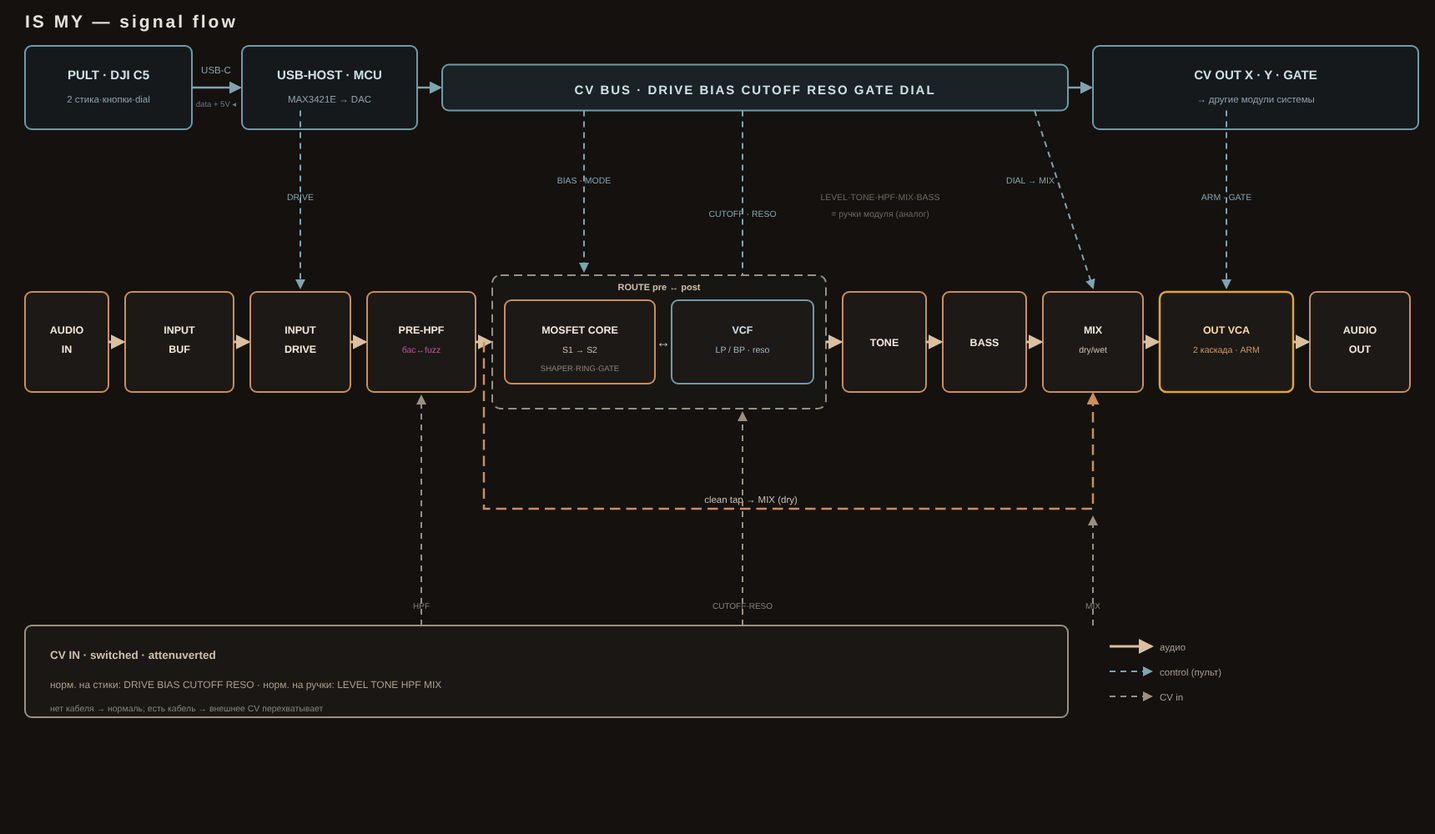
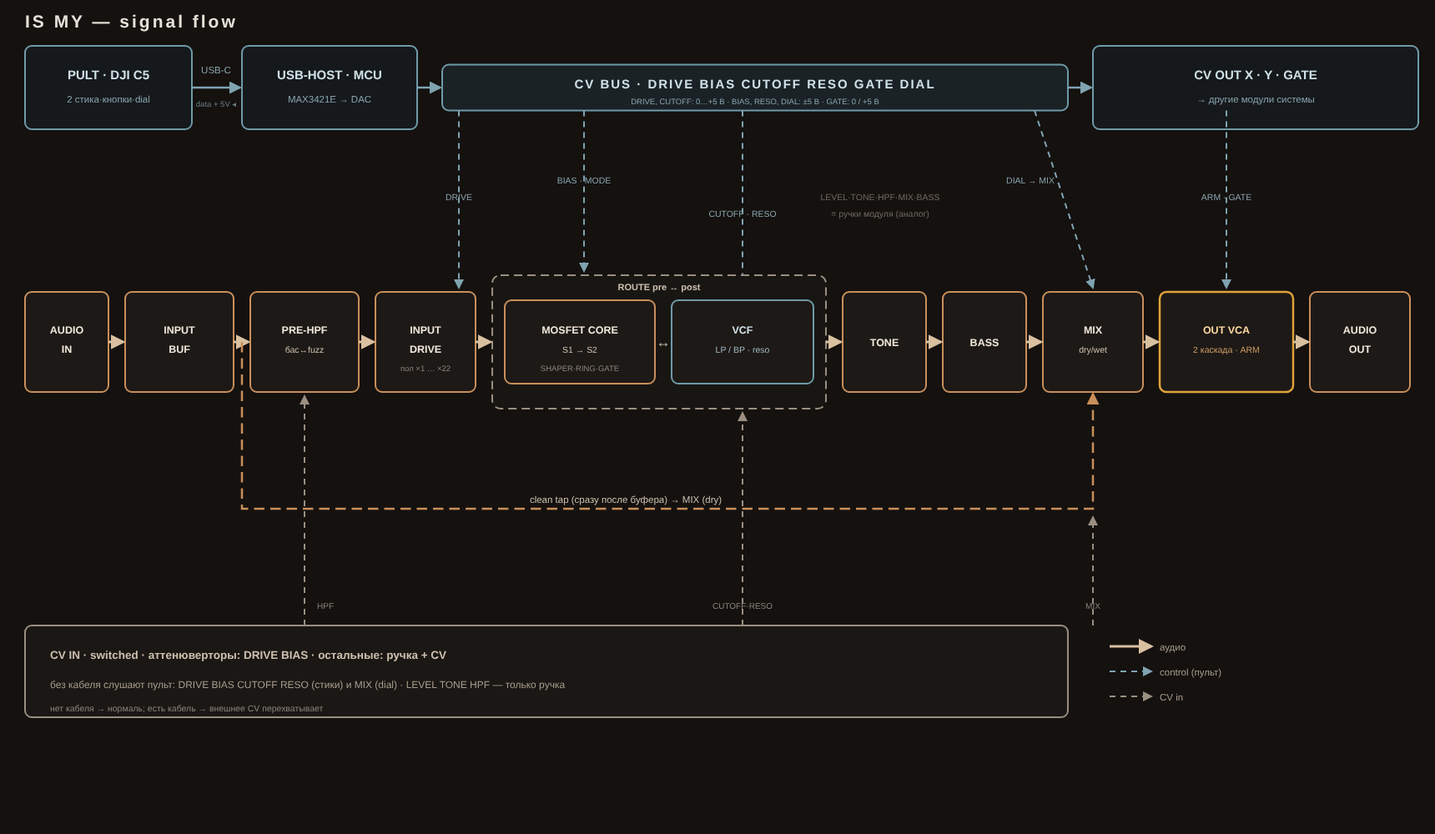
Is My: документы и картинки — этап 0 (C1, C3–C7, D1, D2, D6)
- 01_concept: статус-баннер со списком того, что изменилось с исходного
  концепта (C1)
- 04_prototyping: чек-листы под новые топологии и решения: It-2 двумя
  ветками host, It-3 с полярностями D1, It-4a с выбором рабочей области
  и ячейкой-ключом, It-5 на ключах нижнего плеча; закупка дополнена (C6)
- 05_pult_dji_c5: убрана черновая мысль, каналы ЦАП с диапазонами,
  роли ручек, heartbeat, VBUS по детекту CC (C3)
- panel_module: аттенюверторы только DRIVE и BIAS, вход MIX слушает
  пульт (C4, D2)
- signal_flow: HPF до INPUT DRIVE, clean tap сразу после буфера,
  полярности шины CV
- panel_pult → panel_pult_legacy со штампом «устарело» (C5)
- 06_tutorial_infographic: тракт, режимы и дорожная карта под этап 0

Claude-Session: https://claude.ai/code/session_01RSwz9zC2MGqxp43ShaMKCF

diff --git a/is_my/06_tutorial_infographic.html b/is_my/06_tutorial_infographic.html
@@ -124,7 +124,7 @@
     <span class="lbl"><span class="led amber"></span><b>EDITION</b>&nbsp; 13 экз. с провенансом</span>
     <span class="lbl"><span class="led green"></span><b>ФОРМАТ</b>&nbsp; Eurorack 3U · 20HP · ±12V</span>
     <span class="lbl"><b>СВЯЗЬ</b>&nbsp; один кабель USB-C</span>
-    <span class="lbl"><b>СТАТУС</b>&nbsp; вычитка (07) → этап 0 → прототип</span>
+    <span class="lbl"><b>СТАТУС</b>&nbsp; этап 0 закрыт → закупка и макет</span>
   </div>
 </header>
 
@@ -327,8 +327,8 @@
       <text x="302" y="26" text-anchor="middle" fill="#cdbfae" font-size="8">ROUTE pre/post</text>
       <g fill="#f0e6da" text-anchor="middle" font-weight="600">
         <text x="34" y="63">AUDIO</text><text x="34" y="75">IN</text>
-        <text x="111" y="63">DRIVE</text><text x="111" y="75" fill="#8a837a" font-size="8">предусил</text>
-        <text x="193" y="63">HPF</text><text x="193" y="75" fill="#8a837a" font-size="8">бас↔fuzz</text>
+        <text x="111" y="63">HPF</text><text x="111" y="75" fill="#8a837a" font-size="8">бас↔fuzz</text>
+        <text x="193" y="63">DRIVE</text><text x="193" y="75" fill="#8a837a" font-size="8">пол → клип</text>
         <text x="274" y="63">CORE</text><text x="274" y="75" fill="#8a837a" font-size="8">2×MOSFET</text>
         <text x="330" y="63" fill="#cfe0e6">VCF</text><text x="330" y="75" fill="#8fb3c0" font-size="8">LP/BP·reso</text>
         <text x="406" y="70">TONE</text>
@@ -343,9 +343,9 @@
         <line x1="432" y1="65" x2="448" y2="65"/><line x1="504" y1="65" x2="520" y2="65"/>
         <line x1="580" y1="65" x2="668" y2="65"/><line x1="738" y1="65" x2="754" y2="65"/>
       </g>
-      <path d="M226,65 L226,122 L552,122 L552,89" fill="none" stroke="#c98f5a" stroke-width="1"
+      <path d="M70,65 L70,122 L552,122 L552,89" fill="none" stroke="#c98f5a" stroke-width="1"
             stroke-dasharray="5 3" marker-end="url(#a)"/>
-      <text x="390" y="118" text-anchor="middle" fill="#cdbfae" font-size="8.5">clean tap → в MIX: чистый фундамент под любой грязью</text>
+      <text x="320" y="118" text-anchor="middle" fill="#cdbfae" font-size="8.5">clean tap, сразу со входа → в MIX: чистый фундамент под любой грязью</text>
     </svg>
     </div>
     <figcaption>Один тракт — три режима ядра (SHAPER · RING · GATE), фильтр до или после</figcaption>
@@ -356,11 +356,12 @@
       <p>Два каскада MOSFET: первый мягко насыщает, второй жёстко клиппит в отсечку. BIAS плавно
       гнёт симметрию — чётные ↔ нечётные гармоники. На больших DRIVE — саб-октава (period-doubling).</p></div>
     <div class="card"><span class="tag amber">RING</span>
-      <p>Транзистор буквально коммутирует на несущей 200 Гц – 10 кГц (частота от DRIVE). Боковые
-      полосы, металл, а на низкой несущей — слышимый PWM-tick: голос материала.</p></div>
+      <p>Два транзистора открываются по очереди, как плечо моста в регуляторе хода, и переворачивают
+      сигнал с частотой несущей 200 Гц – 10 кГц (от DRIVE). Боковые полосы, металл, а на низкой
+      несущей слышен тик затворов: голос материала.</p></div>
     <div class="card"><span class="tag amber">GATE</span>
-      <p>Верхний порог лимитирует (DRIVE), нижний гейтит (BIAS): транзиенты остаются, хвосты
-      отрезаются. Перкуссия из чего угодно.</p></div>
+      <p>Один транзистор лимитирует, упираясь в рельсы питания (порог — DRIVE), второй гейтит,
+      закорачивая тракт на землю (порог — BIAS): транзиенты остаются, хвосты отрезаются.</p></div>
   </div>
 </section>
 
@@ -438,15 +439,16 @@
 <!-- ================= 04 ROADMAP ================= -->
 <section>
   <div class="sec-head"><span class="sec-num">04</span><h2>Дорожная карта · от стола до пред-серии</h2></div>
-  <p class="lede">Порядок неслучайный: цифра идёт первой, потому что она быстрая, дешёвая и
-  становится измерительным стендом для аналога. Каждая итерация закрывает конкретные риски
-  и имеет проверяемый выход.</p>
+  <p class="lede">Цифра быстрая и дешёвая, она становится измерительным стендом для аналога.
+  Но главный блокер — ядро на суррогатах (It-4a) — стартует параллельно с пультом, как только
+  пришли транзисторы. Каждая итерация закрывает конкретные риски и имеет проверяемый выход.</p>
 
   <ul class="rmap">
     <li class="blue"><span class="dot"></span>
       <div class="it-head"><span class="name">It-0 · Стенд и закупка</span><span class="tag">неделя</span></div>
-      <p>2× Nucleo-G431, 2× DJI C5 б/у (рабочий + жертва на разбор), MAX3421E, DAC8568, BS170
-      россыпью как суррогаты доноров, осциллограф и лабораторный ±12.</p>
+      <p>Аналог заказывается первым: BS170 россыпью как суррогаты доноров, реле, драйвер затворов,
+      детали фильтра и усилителя. Цифра: 2× Nucleo-G431, Pico, MAX3421E, DAC8568. И 2× DJI C5 б/у —
+      рабочий и жертва на разбор.</p>
       <div class="done-when"><b>выход:</b> всё на столе, ничего не блокирует</div></li>
 
     <li class="blue"><span class="dot"></span>
@@ -458,20 +460,23 @@
 
     <li class="blue"><span class="dot"></span>
       <div class="it-head"><span class="name">It-2 · USB-host на модуле</span><span class="tag blue">R19</span></div>
-      <p>MAX3421E + второй Nucleo энумерируют пульт, VBUS кормит его через токовый лимитер.
-      Горячее втыкание, 10 минут «пилотажа» без единой ошибки парсинга.</p>
+      <p>Две ветки на выбор: Nucleo с MAX3421E и Pico со встроенным host. Питание пульту подаётся
+      только после того, как модуль увидел устройство на линиях CC. Горячее втыкание, 10 минут
+      «пилотажа» без единой ошибки парсинга — остаётся та ветка, что стабильнее.</p>
       <div class="done-when"><b>выход:</b> один кабель = данные + питание, стабильно</div></li>
 
     <li class="blue"><span class="dot"></span>
       <div class="it-head"><span class="name">It-3 · MIDI → CV</span><span class="tag blue">R5</span></div>
-      <p>DAC8568 с калибровкой: центр стика = 0.00 В, края = ±5.00 В, никакой слышимой
-      ступенчатости. Отработать процесс калибровочных таблиц — он потом нужен для каждого экземпляра.</p>
+      <p>DAC8568 с калибровкой. Горизонтали: центр стика = 0.00 В, края = ±5.00 В. Вертикали копят
+      от нуля: 0…+5.00 В. Никакой слышимой ступенчатости. Отработать процесс калибровочных таблиц —
+      он потом нужен для каждого экземпляра.</p>
       <div class="done-when"><b>выход:</b> осциллограмма «жест → CV» чистая, латентность &lt; 15 мс</div></li>
 
     <li class="crit"><span class="dot"></span>
-      <div class="it-head"><span class="name">It-4a · Ядро на суррогатах</span><span class="tag warn">R2 · R14 — блокер</span></div>
-      <p>Двухкаскадный сатуратор + обе сервы на копеечных BS170. Серва должна захватить пять
-      разных транзисторов без подстройки. Найти зону саб-октавы. И — вердикт: злой ли клип
+      <div class="it-head"><span class="name">It-4a · Ядро на суррогатах</span><span class="tag warn">R14 · R21 — блокер</span></div>
+      <p>Идёт параллельно с It-1. Сначала снять кривые транзисторов и выбрать рабочую область,
+      потом двухкаскадный сатуратор и обе сервы на копеечных BS170. Серва должна захватить пять
+      разных транзисторов без подстройки. Найти зону саб-октавы. И — вердикт: плотный ли клип
       без диодов. <b>До закрытия — не заказывать платы, не разбирать доноров.</b></p>
       <div class="done-when"><b>выход:</b> A/B-записи звучат, номиналы зафиксированы</div></li>
 
@@ -482,9 +487,10 @@
       <div class="done-when"><b>выход:</b> материал в тракте, разница с суррогатом задокументирована</div></li>
 
     <li><span class="dot"></span>
-      <div class="it-head"><span class="name">It-5 · RING + GATE + переключения</span><span class="tag amber">R17</span></div>
-      <p>Несущий VCO, ШИМ-компаратор, детектор огибающей. Смена режима — под мьютом с рампой:
-      сто переключений подряд без единого щелчка громче −60 дБ.</p>
+      <div class="it-head"><span class="name">It-5 · RING + GATE + переключения</span><span class="tag amber">R22 · R17</span></div>
+      <p>Те же два транзистора становятся ключами нижнего плеча: реле перекидывают сток и исток,
+      драйвер качает затворы. Несущий VCO, ШИМ-компаратор, детектор огибающей. Смена режима —
+      под мьютом с рампой: сто переключений подряд без единого щелчка громче −60 дБ.</p>
       <div class="done-when"><b>выход:</b> три режима на одном ядре, переходы бесшумны</div></li>
 
     <li><span class="dot"></span>

diff --git a/is_my/04_prototyping.md b/is_my/04_prototyping.md
@@ -1,6 +1,8 @@
 # Is My — план прототипирования (итерации 0–8)
 
-Рабочий документ первых итераций. Принцип: **каждая итерация даёт проверяемый результат** и закрывает конкретные риски из registry (`02_technical.md` §13). Порядок выстроен так, что цифровая часть (быстрая, дешёвая, без редких деталей) идёт первой и становится измерительным стендом для аналоговой.
+Рабочий документ первых итераций. Принцип: **каждая итерация даёт проверяемый результат** и закрывает конкретные риски из registry (`02_technical.md` §13). Цифровая часть (быстрая, дешёвая, без редких деталей) становится измерительным стендом для аналоговой, но главный блокер — ядро на суррогатах (It-4a) — стартует параллельно с It-1, как только пришли транзисторы. Порядок этапов и сроки — `07_review_and_plan.md` §4.
+
+Ревизия после этапа 0: чек-листы приведены к новым топологиям и решениям D1–D7.
 
 Статусы: `[ ]` не начата · `[~]` в работе · `[x]` закрыта. Обновляем по факту.
 
@@ -18,17 +20,20 @@
 **Закупка — цифра (It-1…3, конфиг DJI C5 / USB — 05_pult_dji_c5.md):**
 - 2× **Nucleo-G431KB** (или G431RB) — пульт и модуль; отладка без своей платы
 - 2× **DJI C5 (RC-N1/RC231)** б/у — рабочий + испытательный на teardown (гимбалы, кнопки, шлейфы — R18/R20)
-- **MAX3421E** breakout (USB Host Shield mini) — USB-host модуля (R19)
-- **TPS2553** (VBUS current limit), **buck 12→5** (TPS54202/LMR51420 модуль или готовая плата)
+- **MAX3421E** breakout (USB Host Shield mini) — USB-host модуля, ветка A (R19)
+- **Raspberry Pi Pico** ×1 — USB-host модуля, ветка B: TinyUSB host + `usb_midi_host` (решение D6)
+- **TPS2553** (VBUS current limit), **buck 12→5** (TPS54202/LMR51420 модуль или готовая плата), гнездо USB-C на плате-переходнике с выведенными CC1/CC2
 - **DAC8568** (breakout/DIP-адаптер), **REF3040**
 - Кабель USB-C↔USB-C ×2; кнопки/LED на макет
 - ~~LiPo, зарядка, boost, fuel-gauge, опто, TRS-гнёзда~~ — **сняты** (питание от VBUS, TRS удалён)
 
 **Закупка — аналог (It-4…6):**
-- **BS170 / 2N7000** ×10 (суррогат донора на отладку), **LM13700** ×4, **OPA2188** ×1, **OPA1642/TL072** ×6, **LM311** ×2, **DG419** ×3, 1N4148/BAT54 россыпь
+- **BS170 / 2N7000** ×10 (суррогат донора на отладку) и пара силовых logic-level MOSFET с большим зарядом затвора (IRLZ44N или подобные) — на них проверяется тик ключей (R22)
+- **LM13700** ×4, **OPA2188** ×1, **OPA1642/TL072** ×10, **LM311** ×4, 1N4148/BAT54 россыпь
+- Перекоммутация и ключи (S4.4): **DG333A** ×3, сигнальные реле DPDT **TQ2-12V / G6K-2** ×3, драйвер затворов **TC4428** ×2
 - **Фильтр и усилитель по схемам «Поливокса»** (S5, S8, R24): **К140УД12 / КР140УД1208** ×4 и **К118УД1Б** ×4 (по два на макет плюс запас), **TL071**, **TL072** ×2 (вычитатели VCA — именно TL072, не OPA1642), **2N3904**, **BC547**; для проверки замен — **LM4250** или **NTE888M** ×2 и **CA3046** ×2
 - Пассив: E12 резисторы, плёнка 1µ/100n/22n/10n/1n, многооборотные подстроечники 50k и 100k ×4
-- LDO +9В (L7809/LP2985-9), +5/+3.3 (по S0)
+- Стабилизатор ядра +9 В: 78L09 или LM317L (S0); +5/+3.3 — по S0
 
 **Донорские ESC:** для итераций НЕ нужны до It-4b. Искать параллельно, вход. контроль по §12 (Vth/gfs/Rds(on) + фото/координаты в provenance).
 
@@ -50,60 +55,73 @@
 - [ ] Momentary (горизонтали): честный 0 в центре, пружина возвращает без хвоста
 - [ ] Латентность жест→CC < 10 мс; поток ≤ ~200 пар/с на ось при «пилотаже» всех 4 осей
 - [ ] Калибровка 4 осей (Power-жест) пишется во flash, переживает ребут
-- [ ] ARM/LINK-toggle от кнопок RTH/Fn без даблов; MODE от слайдера; GATE от Shutter; dial → CC#20
+- [ ] ARM/LINK-toggle от кнопок RTH/Fn без даблов; MODE от слайдера; GATE от Shutter; dial → CC#20 (подпружинен ли dial — записать, R18)
+- [ ] Active Sensing (0xFE) в мониторе каждые 250 мс; при неподвижных стиках больше ничего не идёт
+- [ ] Потребление пульта от 5 В замерить (бюджет 50–80 мА, §10)
 
 **Критерий выхода:** DAW пишет автоматизацию со всех 4 осей, rate-кривые музыкальны, R4/R18 закрыты.
 
-## It-2. USB-host линк `[ ]`  → закрывает R19 (бывший TRS-линк снят вместе с R1)
+## It-2. USB-host линк `[ ]`  → закрывает R19 и выбирает MCU модуля (решение D6)
 
-**Цель:** второй Nucleo (модуль) энумерирует пульт через MAX3421E и принимает поток.
+**Цель:** модульная сторона энумерирует пульт и принимает поток. Две ветки с одинаковыми критериями:
+- **A:** Nucleo-2 + MAX3421E breakout (SPI), стек USB Host Shield / USBH_MIDI.
+- **B:** Raspberry Pi Pico + TinyUSB host + `usb_midi_host`.
 
-**Сборка:** Nucleo-2 + MAX3421E breakout (SPI) + TPS2553 на VBUS → кабель USB-C → пульт из It-1. Стек: референс USB Host Shield / USBH_MIDI, разворачивание USB-MIDI пакетов → `bsp_midi_rx_pop()`.
+**Сборка (общая):** TPS2553 на VBUS, Rp 36k на CC1/CC2 к +3,3 В и те же линии на ADC, кабель USB-C → пульт из It-1. Стек разворачивает USB-MIDI пакеты → `bsp_midi_rx_pop()`; логика — `module/main.c` без изменений.
 
-**Чек-лист:**
+**Чек-лист (для каждой ветки):**
+- [ ] Детект устройства на CC: с пультом на одной линии ≈ 0,41 В → VBUS включается; без кабеля и при соединении с компьютером VBUS не подаётся (E18)
 - [ ] Энумерация пульта < 2 с после втыкания; VBUS-лимитер держит бросок
 - [ ] 0 ошибок парсинга за 10 мин «пилотажа» всех осей (счётчик)
-- [ ] Горячее втыкание/вытыкание USB — модуль не виснет, `bsp_midi_link_up()` отрабатывает, значения держатся
-- [ ] Пульт от VBUS модуля: потребление замерить (бюджет ~50 мА)
-- [ ] Тот же пульт в комп — виден как class-compliant MIDI, работает параллельная логика
+- [ ] Горячее втыкание/вытыкание — модуль не виснет, `bsp_midi_link_up()` отрабатывает, значения держатся, GATE отпускается
+- [ ] Стики неподвижны 10 мин — линк не считается потерянным (Active Sensing доходит до парсера)
+- [ ] Тот же пульт в комп — виден как class-compliant MIDI
 
-**Критерий выхода:** линк стабилен, R19 закрыт.
+**Критерий выхода:** линк стабилен, R19 закрыт, **ветка выбрана** — та, что заработала за меньшее число вечеров и стабильнее. MCU модуля зафиксирован в 02 §13 (R7).
 
 ## It-3. MIDI→CV (цифро-аналоговый мост) `[ ]`  → закрывает R5-исполнение
 
-**Цель:** модульная сторона превращает MIDI в калиброванные CV.
+**Цель:** модульная сторона превращает MIDI в калиброванные CV с полярностями по решению D1.
 
-**Сборка:** Nucleo-2 + DAC8568 + REF3040 + масштабаторы (S9.1) на ±5В (X/Y) и 0…+5 (GATE).
+**Сборка:** плата модуля из It-2 + DAC8568 + REF3040 + масштабаторы (S9.1): ±5 В для каналов B, D, H; 0…+5 В для A, C, E.
 
 **Чек-лист:**
-- [ ] Центр джойстика X → 0.00 В ±10 мВ на CV-out (после LUT-калибровки)
-- [ ] Края хода → ±5.00 В ±20 мВ; монотонность по всему ходу (прогнать медленный свип, записать звуковухой/DVM)
+- [ ] При включении без пульта все выходы в нейтрали: 0 В на A, B, C, D, H; mute
+- [ ] Горизонтали (BIAS, RESO) и dial: центр → 0.00 В ±10 мВ, края → ±5.00 В ±20 мВ (после LUT-калибровки)
+- [ ] Вертикали (DRIVE, CUTOFF): 0 → 0.00 В, полная шкала → +5.00 В ±20 мВ; значение стоит после отпускания стика
+- [ ] Монотонность по всему ходу (медленный свип, записать звуковухой/DVM)
 - [ ] Ступеньки: на медленном свипе после RC 1k+100n нет слышимых «лесенок» (проверить CV на VCO любого модуля/синта)
-- [ ] GATE: фронт < 1 мс, уровень 0/+5, де-клик ramp работает
-- [ ] Латентность жест→CV < 15 мс сквозь весь тракт (стик→ADC→MIDI→TRS→парсер→ЦАП)
+- [ ] GATE: фронт < 1 мс (его формирует RC, ≈ 0,2 мс), уровень 0/+5
+- [ ] Mute-рампа канала F на осциллографе: S-образная, 30 мс, без ступенек (E1)
+- [ ] Латентность жест→CV < 15 мс сквозь весь тракт (стик → ADC → USB-MIDI → host → парсер → ЦАП)
 
 **Критерий выхода:** осциллограмма «жест → CV» чистая; калибровочный LUT-процесс отработан (важно для edition, §12).
 
-## It-4a. MOSFET-ядро SHAPER на суррогатах `[ ]`  → закрывает R2, R14 (главный риск!)
+## It-4a. MOSFET-ядро SHAPER на суррогатах `[ ]`  → закрывает R2, R14, R21, R23; снимает R22 (главный риск!)
 
-**Цель:** двухкаскадный сатуратор + сервы работают и **звучат** на BS170/2N7000. Это ключевая итерация — если R14 не подтверждается, пересматриваем ядро до того, как трогать доноров.
+**Цель:** двухкаскадный сатуратор + сервы работают и **звучат** на BS170/2N7000. Это ключевая итерация — если R14 не подтверждается, пересматриваем ядро до того, как трогать доноров. **Стартует параллельно с It-1**, как только есть транзисторы: цифра ей не нужна.
 
 **Сборка (порядок внутри итерации):**
-1. Stage 1 + серва 1 (S4.1/S4.3). Сначала серва: подать питание без сигнала, убедиться что Iq встаёт в 0.45 мА и держится (греть транзистор феном/пальцем — Vdrain не уплывает > ±0.3 В).
-2. Прогнать синус 100 Гц/1 кГц через stage 1: увидеть мягкую асимметрию на скопе, чётные гармоники (FFT звуковухи).
-3. Stage 2 + серва 2, соединить каскады. Драйвить до жёсткого клипа.
-4. INPUT DRIVE (S2) и pre-HPF (S3) перед ядром. BIAS-CV в суммирование затворов.
+1. **Снять Id(Vgs)** у пяти суррогатов точечно (R21): при токах покоя S4 транзистор сидит под порогом, передача экспоненциальная. Выбрать Iq, Rd, Vdd для обоих каскадов осознанно, записать.
+2. Stage 1 + серва 1 (S4.1/S4.3). Сначала серва: подать питание без сигнала, убедиться что Iq встаёт в номинал и держится (греть транзистор феном/пальцем — Vdrain не уплывает > ±0.3 В).
+3. Прогнать синус 100 Гц/1 кГц через stage 1: увидеть асимметрию на скопе, чётные гармоники (FFT звуковухи). Подобрать входной делитель (старт ÷4,9).
+4. Stage 2 + серва 2, межкаскадный делитель (старт ÷22), буфер и anti-fizz. Драйвить до жёсткого клипа.
+5. Пред-тракт перед ядром: pre-HPF (S3), затем INPUT DRIVE с сухим путём (S2). BIAS-CV в суммирование затворов.
+6. **Отдельно: ячейка-ключ** (S4.4) на одном транзисторе через реле: узел 47 Ω, затвор 0/+9 В от TC4428.
 
 **Чек-лист:**
+- [ ] Кривые Id(Vgs) сняты, рабочая область и делители выбраны и записаны в `03_schematics` (R21)
 - [ ] Сервы: Iq в номинале на 5 разных экземплярах транзисторов без подстройки (разброс Vth эмулирует доноров)
 - [ ] Серва не «дышит» на басу 30 Гц (τ=1с достаточна, низ не проседает)
+- [ ] «Дыхание» на клипе (E15): затухающий аккорд на максимуме DRIVE, послушать первую секунду — характер или помеха
 - [ ] BIAS реально морфит чёт/нечёт: FFT при Bias по центру vs крайних — картина гармоник меняется
-- [ ] DRIVE от чистого до жёсткого клипа без мёртвых зон
-- [ ] pre-HPF: CCW жирный бас-клип / CW тонкий fuzz — слышимая разница (это перенесённое главное качество сатуратора)
+- [ ] DRIVE: на нуле — сигнал на границе клипа, не тишина; до жёсткого клипа без мёртвых зон; постоянка на выходе INPUT DRIVE сведена TR_off (R23)
+- [ ] pre-HPF: CCW жирный бас-клип / CW тонкий fuzz — слышимая разница (это перенесённое главное качество сатуратора); срез 20 Гц…2 кГц
 - [ ] Period-doubling: найти зону саб-октавы, подобрать Cs12/ОС (R2), задокументировать номиналы
-- [ ] **Вердикт R14**: плотность/компрессия достаточны без диодов? (записать A/B-примеры звука)
+- [ ] Ячейка-ключ: закрытый транзистор не искажает сигнал ±0,1 В на узле, открытый давит его не хуже 40 дБ; повторить на силовом MOSFET с большим зарядом затвора и послушать тик (R22)
+- [ ] **Вердикт R14** (формулировка D7): клип на подпороговом MOSFET достаточно плотный без диодов? (записать A/B-примеры звука)
 
-**Критерий выхода:** R14 закрыт (или принято решение о пересмотре), номиналы ядра зафиксированы в `03_schematics`.
+**Критерий выхода:** R14 закрыт (или принято решение о пересмотре), рабочая область выбрана по измеренным кривым, номиналы ядра зафиксированы в `03_schematics`.
 
 ## It-4b. Донорские ESC-MOSFET `[ ]`  → закрывает R8
 
@@ -116,20 +134,25 @@
 
 **Критерий выхода:** таблица допусков R8; критерии входного контроля для edition готовы.
 
-## It-5. RING + GATE + FSM переключения `[ ]`  → закрывает R17 (частично)
+## It-5. RING + GATE + FSM переключения `[ ]`  → закрывает R22, R17 (частично)
 
-**Цель:** три режима на одном ядре, переключение без щелчков.
+**Цель:** три режима на одних и тех же двух транзисторах, переключение без щелчков.
 
-**Сборка:** VCO+PWM (S4.5), лимитер+детектор (S4.6), DG419-мультиплексор (S4.4), мьют-VCA (пока простой OTA), FSM в Nucleo-2 (MODE по MIDI → ramp → switch → ramp).
+**Сборка:** две ячейки-ключа и сумматор, реле K1/K2 и DG333A (S4.4); VCO, ШИМ-компаратор и драйвер TC4428 (S4.5); лимитер на Q2, детектор и компаратор гейта (S4.6); мьют-VCA (пока простой OTA); FSM на плате модуля (MODE по MIDI → рампа → переключение → пауза → рампа).
 
 **Чек-лист:**
-- [ ] RING: несущая 200 Гц–10 кГц от DRIVE, боковые полосы на FFT, PWM-tick слышен на низкой несущей
-- [ ] Свинг затвора 0/+9 достаточен: полное переключение на транзисторе с худшим Vth из It-4b
-- [ ] GATE: порог от BIAS чёткий, гистерезис без дребезга, атака/релиз перкуссивные
-- [ ] Переключение MODE под mute: запись переходов на звуковуху → нет щелчков > −60 дБ от сигнала
-- [ ] 100 переключений подряд (скрипт) — ни одного залипания ключей/FSM
+- [ ] RING: несущая 200 Гц–10 кГц от DRIVE, боковые полосы на FFT; при скважности 50 % прямой сигнал подавлен, TR_null сводит остаток
+- [ ] BIAS подмешивает прямой сигнал, глубина ШИМ (TR_pwm) добавляет самомодуляцию — оба слышны и управляемы
+- [ ] Сравнить две физики RING на слух: переворот полярности на двух ключах и «класс D» (S4.5в) — записать A/B, выбрать (R22)
+- [ ] Тик затворов на донорах из It-4b: слышен на низкой несущей, не забивает сигнал на высокой; подобрать сопротивление узла
+- [ ] Громкость в RING не ходит за DRIVE (усиление INPUT DRIVE зафиксировано)
+- [ ] GATE: лимитер на Q2 упирается в рельсы, порог от DRIVE; порог гейта от BIAS чёткий, гистерезис без дребезга; открытие ≈ 0,5 мс, закрытие 10–30 мс
+- [ ] Гейт закрывается и открывается без хлопка по постоянке; если щёлкает — RC на затвор в этом режиме
+- [ ] Сервы после возврата в SHAPER встают сразу (hold работает), без секунд повторного захвата
+- [ ] Переключение MODE под mute: запись переходов на звуковуху → нет щелчков > −60 дБ от сигнала; паузы 10 мс хватает реле
+- [ ] 100 переключений подряд (скрипт), в том числе запросы посреди рампы — ни одного залипания реле, ключей или FSM
 
-**Критерий выхода:** все 3 режима играют, переходы чистые.
+**Критерий выхода:** все 3 режима играют, переходы чистые, физика RING выбрана.
 
 ## It-6. VCF + ROUTE + Tone/Bass/MIX/VCA `[ ]`  → закрывает R16, R17 (полностью), R24, R25
 
@@ -145,9 +168,9 @@
 - [ ] VCA (S8): вычитатели на TL072 работают со входами у плюсовой шины (≈ +11,7 В) без искажений и защёлкивания; если нет — заменить на ОУ с rail-to-rail входом (R25)
 - [ ] Замены (R24): К140УД12 против LM4250/NTE888M и К118УД1Б против сборки на CA3046 — записи A/B, вердикт по допустимости
 - [ ] ROUTE pre/post меняет характер радикально (свип фильтра до клипа vs после) — под mute, без щелчков
-- [ ] MIX: clean blend спасает низ на тяжёлой сатурации (A/B на бас-линии)
+- [ ] MIX: clean blend спасает низ на тяжёлой сатурации (A/B на бас-линии); на средних положениях ручки основной тон не проваливается — wet и dry в фазе (S8)
 - [ ] Сквозной шум тракта в тишине (ARM on, вход заглушен) ≤ −70 дБ отн. номинала ±5В
-- [ ] Потребление по ±12 замерить фактически vs §10 (обновить таблицу)
+- [ ] Потребление по ±12 замерить фактически vs §10, с пультом на VBUS и в режиме RING (оба реле включены) — обновить таблицу
 
 **Критерий выхода:** полный тракт записан (демо-сессия), R16/R17/R24/R25 закрыты, номиналы S5 и S8 зафиксированы, §10 актуализирован.
 
@@ -178,12 +201,12 @@
 | It | Закрывает | Ключевой вопрос |
 |----|-----------|-----------------|
 | 1 | R4, R18 | rate-семантика осей; сенсоры гимбалов DJI |
-| 2 | R19 | USB-host (MAX3421E) стабилен |
-| 3 | R5-исполнение | точность/гладкость CV |
-| **4a** | **R2, R14** | **клип без диодов достаточно злой?** |
+| 2 | R19, R7 | какая ветка USB-host и какой MCU модуля (D6) |
+| 3 | R5-исполнение | точность/гладкость CV, полярности D1 |
+| **4a** | **R2, R14, R21, R23** | **клип на подпороговом MOSFET достаточно плотный без диодов?** |
 | 4b | R8 | допуски доноров |
-| 5 | R17 (часть) | переключения без щелчков |
+| 5 | R22, R17 (часть) | ключи нижнего плеча на донорах; переключения без щелчков |
 | 6 | R16, R17, R24, R25 | фильтр и усилитель по схемам «Поливокса»: дрейф, уровни, замены; полный тракт |
 | 7 | R20 | посадка платы в корпус DJI |
 
-Порядок 1→2→3 строго последовательный (каждая — стенд для следующей). 4a можно начинать параллельно с 2–3, если аналоговые детали пришли раньше. **Самый большой риск проекта — R14 (It-4a): до его закрытия не заказывать PCB и не разбирать доноров сверх 2-3 штук на обмеры.**
+Порядок 1→2→3 строго последовательный (каждая — стенд для следующей). **It-4a идёт параллельно с It-1**: цифра ей не нужна, а это главный блокер. **Самый большой риск проекта — R14 (It-4a): до его закрытия не заказывать PCB и не разбирать доноров сверх 2-3 штук на обмеры.**

diff --git a/is_my/01_concept.md b/is_my/01_concept.md
@@ -4,6 +4,19 @@
 
 Это рабочий концепт-документ для дальнейших итераций по схемотехнике, прошивке, конструкции и документации. Схемотехнические решения сюда сознательно **не включены** — они прорабатываются отдельно после фиксации архитектуры.
 
+> **Статус.** Это исходный концепт. Поэтика, три режима ядра, edition и принципы (§1–2, §3.2, §6, §10)
+> действуют. Часть инженерных решений с тех пор изменилась; текст ниже оставлен как был, актуальное
+> состояние — в `02_technical.md` (§13), `05_pult_dji_c5.md` и `07_review_and_plan.md`:
+> - **Пульт** — донор DJI C5: два стика, без батареи, без CV-выходов, без педали. Связь и питание —
+>   один кабель USB-C вместо TRS-MIDI и LiPo (§4, §5.2, §5.3, §8).
+> - **Оси:** левый стик — DRIVE и BIAS, правый — CUTOFF и RESO. LEVEL и TONE стали ручками модуля (§4.2, §4.3).
+> - **Модуль** вырос до 20HP и стал полным голосом: к сатуратору добавлены резонансный фильтр
+>   и выходной VCA (§3.1, §5.1). CV-входов на панели восемь, а не четыре (§3.3).
+> - **CV-выходы X / Y / GATE** остались только на панели модуля (§3.3, §7).
+> - Из открытых вопросов §9 решены: контроллер, корпус пульта, переключение режимов, раскладка панели;
+>   схемотехника ядра спроектирована и ждёт проверки на макете. Открыты: сертификат провенанса,
+>   поставщик плат ESC, экспорт edition.
+
 ---
 
 ## 1. Краткое описание
